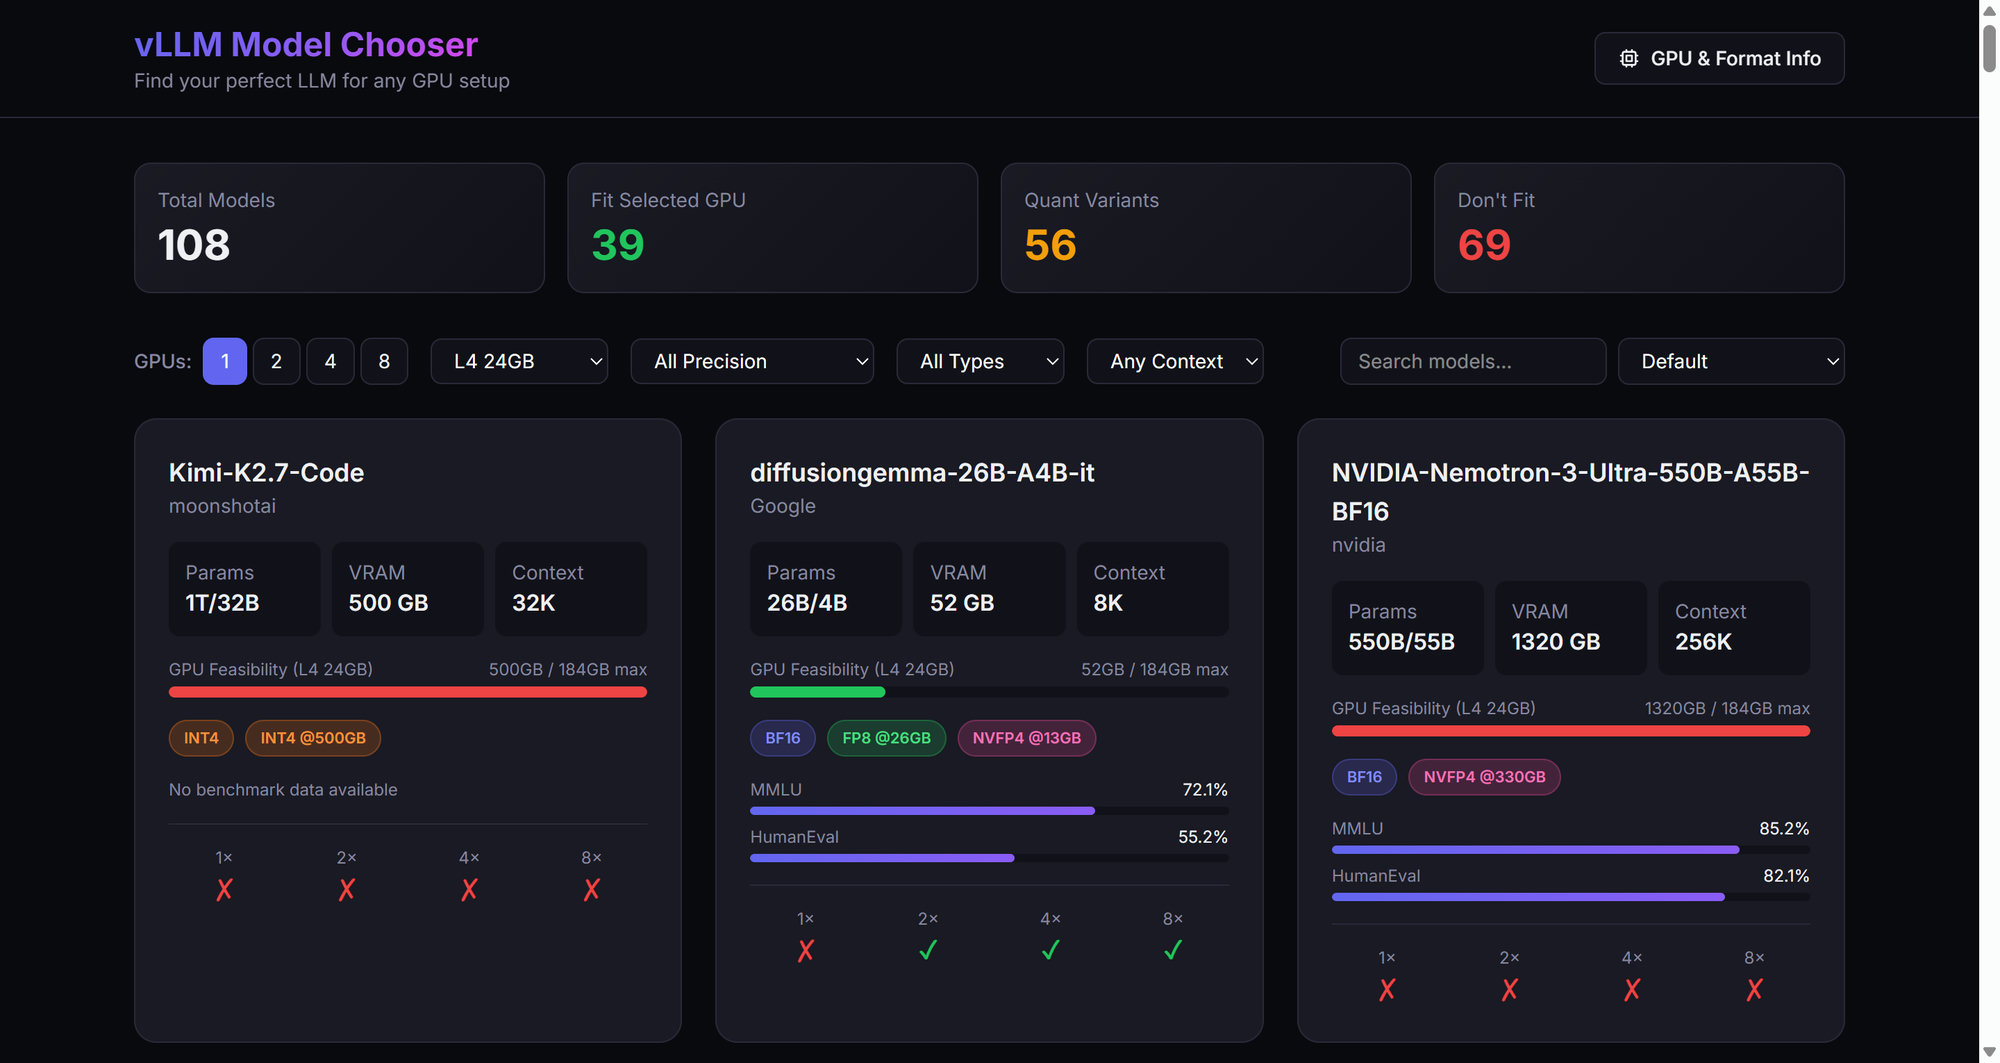
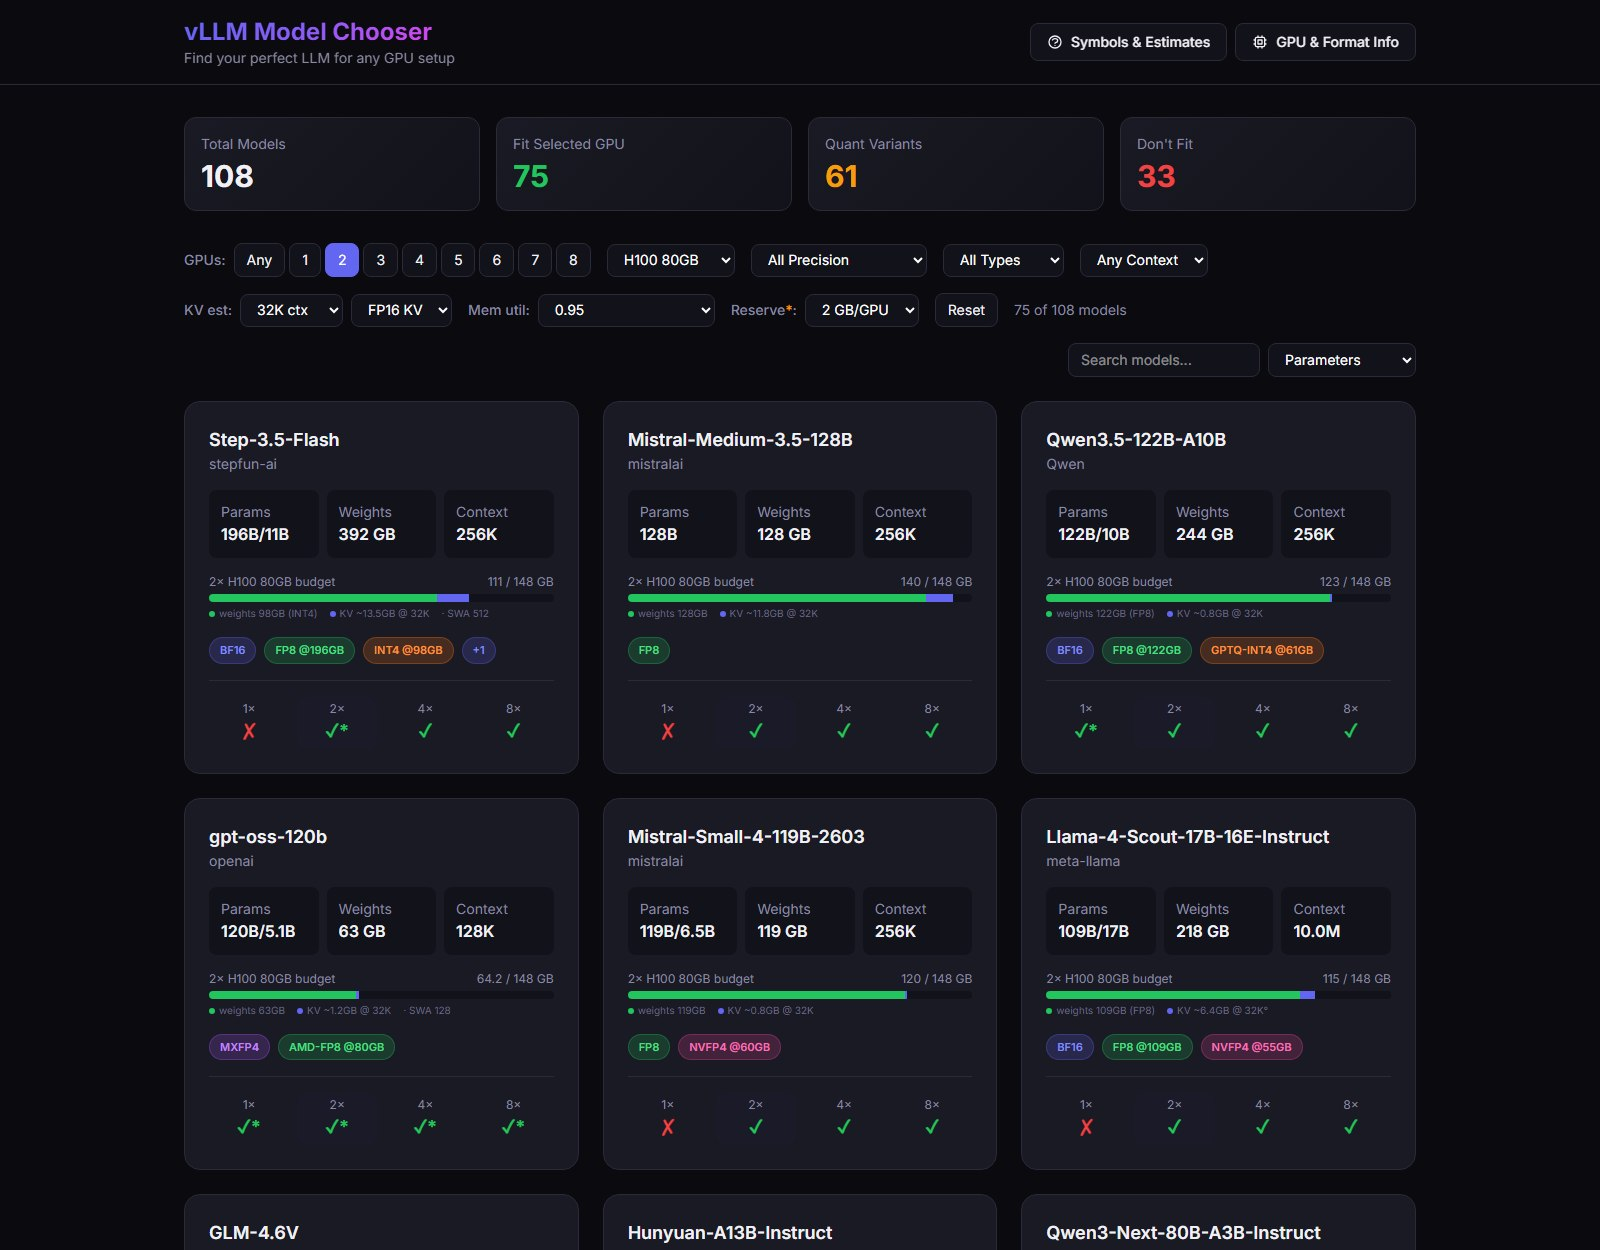
docs(posts): rewrite the vLLM Model Chooser post around the memory model
The June post described a tool that no longer exists: it promised MMLU/HumanEval
scores and a "Tested" badge (both since removed), called the app a single
self-contained index.html (it's now a generated data.js + app.js), and got three
rows of the quantization matrix wrong (FP8 is native on Ada, MXFP4 is software on
A100 rather than Hopper-only, MXFP8 is native on Blackwell, not software).

It also missed what the tool is now actually about — the vLLM-style memory budget,
the KV cache computed from each model's real HF attention geometry, FP8 KV, the
concurrency floor, and the provenance markers — so the post is rebuilt around
those, with fresh screenshots of the current UI.

Claude-Session: https://claude.ai/code/session_014yMdTjEr2bGP6VBRbP48fZ

diff --git a/posts/2026-06-22-vllm-model-chooser/index.html b/posts/2026-06-22-vllm-model-chooser/index.html
@@ -4,128 +4,132 @@
   <meta charset="utf-8">
   <meta name="viewport" content="width=device-width, initial-scale=1.0">
   <meta name="author" content="ylnhari">
-  <meta name="description" content="An interactive tool to find the optimal vLLM-compatible LLM for any GPU setup — L4 to B200, multi-GPU, quantization-aware model selection for 108+ models.">
-  <meta property="og:title" content="vLLM Model Chooser: Find Your Perfect LLM for Any GPU Setup">
-  <meta property="og:description" content="An interactive tool to find the optimal vLLM-compatible LLM for any GPU setup — L4 to B200, multi-GPU, quantization-aware model selection for 108+ models.">
+  <meta name="description" content="An interactive tool that answers &quot;will this LLM actually fit on my GPUs?&quot; — weights, KV cache from real attention geometry, and quantization support, for 108 models from L4 to B200.">
+  <meta property="og:title" content="vLLM Model Chooser: Will This LLM Actually Fit on Your GPUs?">
+  <meta property="og:description" content="An interactive tool that answers &quot;will this LLM actually fit on my GPUs?&quot; — weights, KV cache from real attention geometry, and quantization support, for 108 models from L4 to B200.">
   <meta property="og:image" content="https://images.unsplash.com/photo-1558494949-ef010cbdcc31?w=1200&q=80">
-  <title>vLLM Model Chooser: Find Your Perfect LLM for Any GPU Setup</title>
+  <title>vLLM Model Chooser: Will This LLM Actually Fit on Your GPUs?</title>
   <link rel="stylesheet" href="../../assets/style.css">
 </head>
 <body>
 <article>
 
-<h1>vLLM Model Chooser: Find Your Perfect LLM for Any GPU Setup</h1>
-<p class="byline">By ylnhari &middot; June 22, 2026 &middot; vLLM, LLM, GPU, open-source, AI-tools</p>
+<h1>vLLM Model Chooser: Will This LLM Actually Fit on Your GPUs?</h1>
+<p class="byline">By ylnhari &middot; June 22, 2026 (updated July 14, 2026) &middot; vLLM, LLM, GPU, open-source, AI-tools</p>
 
-<img src="https://raw.githubusercontent.com/ylnhari/blog/main/posts/2026-06-22-vllm-model-chooser/images/dashboard-main.jpg" alt="vLLM Model Chooser dashboard showing the main interface: header, stats cards (108 models, 39 fit, 56 quant variants, 69 don't fit), GPU/format filter controls, and interactive model listing with feasibility indicators">
+<img src="https://raw.githubusercontent.com/ylnhari/blog/main/posts/2026-06-22-vllm-model-chooser/images/dashboard-main.jpg" alt="vLLM Model Chooser dashboard: stats cards, GPU and KV-cache filter controls, and model cards each showing a stacked memory bar split into weights and KV cache against the selected GPU budget">
 
-<h2>The Problem: Too Many Models, Too Little Clarity</h2>
+<h2>The Problem: Parameter Count Tells You Nothing</h2>
 
-<p>If you've ever tried to run an LLM on your own GPU hardware, you've hit this wall: a model's parameter count tells you nothing about whether it'll actually fit on your GPU. A 70B model in BF16 needs ~140 GB of VRAM — but in FP8 it needs ~70 GB, and in NVFP4 it squeezes into ~35 GB. That's four wildly different answers for the same model, depending entirely on which quantization format your GPU supports.</p>
+<p>If you've ever tried to serve an LLM on your own GPUs, you've hit this wall: a model's parameter count tells you almost nothing about whether it will actually fit. A 70B model in BF16 wants ~140 GB of weights — but in FP8 it's ~70 GB, and in NVFP4 it squeezes into ~35 GB. That's three wildly different answers for the same model, and which of them you're allowed to use depends on whether your GPU has tensor cores for that format at all.</p>
 
-<p>The deeper problem? NVFP4 is native on Blackwell (B100/B200), completely absent on Ada Lovelace (L4). MXFP8 works on Blackwell via vLLM SW support but doesn't exist on Hopper. There's no single place to check "which models fit MY hardware" — until now.</p>
+<p>And weights are only half the story. The other half is the <strong>KV cache</strong>, which grows with context length and concurrency, and which vLLM greedily fills with whatever memory is left after the weights load. A model whose weights "fit" in 74 GB with 4 GB to spare doesn't fit in any useful sense — you have nowhere to put the conversation.</p>
 
 <h2>Introducing vLLM Model Chooser</h2>
 
-<p><strong>vLLM Model Chooser</strong> is a single-file interactive web tool that tells you exactly which vLLM-compatible models run on your GPU setup — with zero configuration, no installation, and instant results. It ships as a standalone <code>index.html</code> that you can open in any browser or serve locally.</p>
+<p><strong>vLLM Model Chooser</strong> is an interactive web tool that tells you which vLLM-compatible models actually run on your GPU setup — weights, KV cache, and format support together — with zero configuration and no installation.</p>
 
 <ul>
-  <li><strong>6 GPU types:</strong> L4, A100, H100, H200, B100, B200 — with 1/2/4/8x multi-GPU</li>
-  <li><strong>108 models</strong> with detailed specs: params, VRAM, context length, quantization variants, benchmarks</li>
-  <li><strong>VRAM + quantization dual check:</strong> filters by BOTH weight VRAM AND quantization format compatibility</li>
-  <li><strong>GPU info modal:</strong> full specs, Native HW vs vLLM SW support table, quantization compatibility matrix</li>
-  <li><strong>vLLM Recipe &amp; HuggingFace links</strong> per model</li>
+  <li><strong>6 GPU types:</strong> L4, A100, H100, H200, B100, B200 — at any count from 1 to 8</li>
+  <li><strong>108 models</strong> with params, active params (for MoE), weight-only VRAM, context length and quantization variants</li>
+  <li><strong>A real memory budget:</strong> physical VRAM × <code>--gpu-memory-utilization</code> − activation reserve = what's actually usable for weights + KV</li>
+  <li><strong>KV-cache estimate from each model's real attention geometry</strong> — read from its HuggingFace <code>config.json</code>, sliding windows included</li>
+  <li><strong>Quantization × GPU matrix:</strong> native tensor-core support vs. vLLM's software path, per architecture</li>
+  <li><strong>Provenance on every number</strong> — the tool tells you which figures are measured-from-source and which are estimates</li>
 </ul>
 
-<p>The tool is open-source under MIT license: <a href="https://github.com/ylnhari/vllm-model-chooser">github.com/ylnhari/vllm-model-chooser</a></p>
+<p>It's open-source under MIT: <a href="https://github.com/ylnhari/vllm-model-chooser">github.com/ylnhari/vllm-model-chooser</a></p>
 
-<blockquote>"There's no single place to check which models fit MY hardware — until now."</blockquote>
+<blockquote>"Weights tell you whether the model loads. The KV cache tells you whether you can serve anyone."</blockquote>
 
-<h2>Why Quantization Awareness Matters</h2>
+<h2>The Memory Budget, the Way vLLM Actually Accounts For It</h2>
 
-<p>The landscape of quantization formats has exploded in the last year. vLLM supports BF16, FP8, INT4/AWQ/GPTQ, NVFP4, MXFP4, and MXFP8 — but not every GPU supports every format:</p>
+<p>The heart of the tool is a memory budget that mirrors vLLM's own accounting rather than hand-waving at "VRAM needed". Open any model and you get the whole chain, itemized:</p>
+
+<img src="https://raw.githubusercontent.com/ylnhari/blog/main/posts/2026-06-22-vllm-model-chooser/images/memory-budget.jpg" alt="Model detail view for Llama-3.3-70B-Instruct on 2x H100: memory budget breakdown from 160 GB physical down to a 78 GB KV cache pool, plus per-GPU-count feasibility list">
+
+<p>Take Llama-3.3-70B on 2× H100 80GB, in FP8, at 32K context:</p>
 
 <ul>
-  <li><strong>BF16:</strong> Native on all GPUs from Ada to Blackwell</li>
-  <li><strong>FP8:</strong> Native on Hopper and Blackwell; software emulation on Ampere via vLLM</li>
-  <li><strong>INT4/AWQ/GPTQ:</strong> Software support on all architectures via vLLM</li>
-  <li><strong>NVFP4:</strong> Native on Blackwell only — completely absent on L4, A100, and H100</li>
-  <li><strong>MXFP4:</strong> Native on Blackwell, software on Hopper</li>
-  <li><strong>MXFP8:</strong> Software on Blackwell only</li>
+  <li><strong>160 GB</strong> physical across the two cards</li>
+  <li><strong>× 0.95</strong> memory utilization → 152 GB (vLLM's own default is 0.90–0.92; 0.95 is the optimistic end, and it's a control you can change)</li>
+  <li><strong>− 4 GB</strong> activation / CUDA-graph reserve → <strong>148 GB usable</strong></li>
+  <li><strong>− 70 GB</strong> FP8 weights → <strong>78 GB KV cache pool</strong></li>
+  <li>≈ <strong>7 concurrent requests</strong> if every one of them fills the full 32K context</li>
 </ul>
 
-<p>This means a model that fits on a B200 in NVFP4 might be 4x too large for the same model on an H100. The Chooser handles this automatically — pick your GPU, and it only shows quantization variants that actually work on that hardware.</p>
+<p>That last number is the one that changes decisions. "It fits" and "it fits, and you can serve seven simultaneous long-context requests" are different sentences, and only the second one is a deployment plan. (It's deliberately a floor: real traffic is mostly shorter than max context, and PagedAttention shares prefix blocks, so you'll usually do better.)</p>
 
-<img src="https://raw.githubusercontent.com/ylnhari/blog/main/posts/2026-06-22-vllm-model-chooser/images/gpu-modal.jpg" alt="GPU &amp; Format Compatibility modal showing a detailed compatibility matrix: which quantization formats (BF16, FP8, INT4, NVFP4, MXFP4, MXFP8) are supported natively vs via software on each GPU architecture from L4 to B200">
+<h2>The KV Cache Is Computed, Not Guessed</h2>
 
-<h2>How It Works</h2>
+<p>Most VRAM calculators estimate the KV cache as some multiple of parameter count. That's wrong in both directions: it ignores grouped-query and multi-head-latent attention, which shrink the cache dramatically, and it over-counts MoE models, whose experts add parameters but no attention state.</p>
 
-<p>The interface is simple but powerful:</p>
+<p>So the Chooser doesn't guess. A generator script pulls each model's <code>config.json</code> from HuggingFace and computes bytes-per-token from the actual geometry — layers, KV heads, head dimension, and, crucially, <strong>sliding-window attention</strong>: layers that cap their cache at a fixed window instead of growing with context. That's why some models here show a startlingly small KV footprint. It isn't a bug; it's the architecture, and it's the same file vLLM itself reads at startup.</p>
 
-<ol>
-  <li><strong>Select your GPU</strong> — L4, A100, H100, H200, B100, or B200</li>
-  <li><strong>Choose GPU count</strong> — 1, 2, 4, or 8 GPUs</li>
-  <li><strong>Optional filters</strong> — Precision format, model type (Text, Vision, MoE, Embedding), minimum context length</li>
-  <li><strong>Sort</strong> — by parameters, VRAM, context length, MMLU score, or HumanEval score</li>
-  <li><strong>Search</strong> — type any model name to find it instantly</li>
-</ul>
+<p>You can also switch the cache to FP8 (<code>--kv-cache-dtype fp8</code>), which halves it, and watch every model's fit verdict shift.</p>
 
-<p>The tool instantly recalculates and shows you exactly which models fit, with per-GPU feasibility indicators (green checkmark for fits, red X for doesn't) for each count configuration.</p>
+<h2>Every Number Says How Confident It Is</h2>
 
-<p>For each model, you see:</p>
-<ul>
-  <li>Parameter count &amp; active parameters (for MoE models like DeepSeek-V4 with 1600B/49B)</li>
-  <li>VRAM requirements in GB</li>
-  <li>Context length</li>
-  <li>Available quantization variants with VRAM at each quantization level</li>
-  <li>MMLU &amp; HumanEval benchmark scores</li>
-  <li>Direct links to vLLM Recipe and HuggingFace</li>
-</ul>
+<p>A tool that hands you a number with no provenance is asking you to trust arithmetic you can't see. So each figure carries a marker, and the page ends with a glossary that explains what each one means <em>and what to do about it</em>:</p>
 
-<h2>Multi-GPU Support: From 1 to 8 GPUs</h2>
-
-<p>One of the most valuable features is the multi-GPU slider. The tool combines usable VRAM across GPUs (with a 95% usable factor to account for system overhead) and checks model fit at each count. This makes it easy to answer questions like:</p>
+<img src="https://raw.githubusercontent.com/ylnhari/blog/main/posts/2026-06-22-vllm-model-chooser/images/glossary.jpg" alt="Glossary section explaining the confidence markers: estimated-not-measured, mirror-sourced KV geometry, hand-sourced geometry, coarse params-times-tokens proxy, the activation reserve assumption, and the software-path fit verdict">
 
 <ul>
-  <li><strong>"Can Llama-3.3-70B run on a single L4?"</strong> — No (needs 140 GB BF16, L4 has 23 GB usable).</li>
-  <li><strong>"What about 4x L4?"</strong> — Yes! 184 GB usable is enough for BF16.</li>
-  <li><strong>"What about 2x H100 in FP8?"</strong> — Yes, 152 GB usable comfortably fits 70 GB FP8.</li>
+  <li><strong>No marker</strong> — computed from the model's own published config.</li>
+  <li><strong>°</strong> — the model's repo is gated, so the attention geometry came from an ungated same-architecture mirror.</li>
+  <li><strong>†</strong> — no config reachable anywhere; geometry hand-sourced from the model card or paper.</li>
+  <li><strong>‡</strong> — no geometry at all, so the KV falls back to a coarse params×tokens proxy that ignores GQA/MLA and over-estimates MoE. The weakest number on the site, and it says so.</li>
+  <li><strong>*</strong> — the activation reserve is an <em>assumption</em>. vLLM measures it by profiling a real forward pass at startup; the tool can only guess, so it lets you set it.</li>
 </ul>
 
-<p>The tool even handles next-gen hardware: B100 and B200 with 192 GB each (182 GB usable per card) unlock 8-GPU setups with up to 1,456 GB of usable VRAM — enough for models like DeepSeek-V4 (960 GB in NVFP4) or Qwen3-Coder-480B.</p>
+<p>The honest headline: every VRAM and KV figure here is arithmetic, not a reading from a running server. Use it to shortlist hardware in seconds instead of hours — then confirm by actually starting vLLM.</p>
 
-<h2>108 Models, All in One Place</h2>
+<h2>Quantization: Native Silicon vs. vLLM's Software Path</h2>
 
-<p>The latest generation of open-weight models is covered comprehensively:</p>
+<p>vLLM supports BF16, FP8, INT8, INT4/AWQ/GPTQ, NVFP4, MXFP4 and MXFP8 — but "supported" hides an important distinction. Some formats run on native tensor cores; others are dequantized on the fly in software, which saves memory but gives you no speedup, and can be slower than a format the hardware understands.</p>
+
+<img src="https://raw.githubusercontent.com/ylnhari/blog/main/posts/2026-06-22-vllm-model-chooser/images/gpu-modal.jpg" alt="GPU and Format Compatibility modal: per-architecture snapshot of native vs software formats, a GPU specification table with the derived memory budget, and the full quantization compatibility matrix">
 
 <ul>
-  <li><strong>DeepSeek:</strong> V3/V3.1/V3.2, V4-Pro (1600B/49B), V4-Flash (284B/13B), R1 (671B/37B)</li>
-  <li><strong>Qwen:</strong> Qwen3-32B, Qwen3-235B-A22B, Qwen3-Coder-480B, Qwen3.5 series (0.8B to 397B)</li>
-  <li><strong>Meta:</strong> Llama-3.1-8B, Llama-3.3-70B, Llama-4-Scout-109B/17B</li>
-  <li><strong>Mistral:</strong> Small-4-119B, Large-3-675B, Medium-3.5-128B</li>
-  <li><strong>Google:</strong> Gemma-4 series (5B to 31B), diffusiongemma, translategemma</li>
-  <li><strong>NVIDIA:</strong> Nemotron-3 (Nano to Ultra 550B), Cosmos3 series</li>
-  <li><strong>Kimi/Moonshot:</strong> K2-Instruct, K2-Thinking, K2.5, K2.7-Code (1T/32B)</li>
-  <li><strong>MiniMax:</strong> M2/M2.1/M2.5/M2.7/M3 series (427B/26B with 1M context)</li>
-  <li><strong>And more:</strong> InternLM, Baidu ERNIE, StepFun, Xiaomi MiMo, InclusionAI Ling</li>
+  <li><strong>BF16</strong> — native everywhere, from Ada to Blackwell.</li>
+  <li><strong>FP8</strong> — native on Ada, Hopper and Blackwell; software (Marlin) on Ampere.</li>
+  <li><strong>INT8 (W8A8)</strong> — native on every listed GPU; they're all Ampere or newer, with int8 tensor cores.</li>
+  <li><strong>INT4 / AWQ / GPTQ (W4A16)</strong> — software on <em>all</em> GPUs: the weights are dequantized to FP16 for the actual math. Real memory saving, no int4 tensor-core speedup.</li>
+  <li><strong>NVFP4</strong> — Blackwell FP4 tensor cores only. Absent on L4, A100 and H100.</li>
+  <li><strong>MXFP4</strong> — native on Blackwell, software elsewhere (which is how gpt-oss-120b squeezes onto a single A100).</li>
+  <li><strong>MXFP8</strong> — native on Blackwell MX tensor cores only; unsupported on earlier hardware.</li>
 </ul>
 
-<p>Each model entry also includes a <strong>"Tested"</strong> badge for models validated in production, benchmark scores, and direct links to deployment recipes.</p>
+<p>The tool never offers you a variant your GPU can't run, and a fit that only works through the software path is marked <strong>✓*</strong> rather than a plain ✓ — because you should know what you're buying.</p>
 
-<h2>Built for Practical Deployment</h2>
+<h2>Multi-GPU: From One L4 to Eight B200s</h2>
 
-<p>Under the hood, <strong>vLLM Model Chooser</strong> is refreshingly simple: a single <code>index.html</code> that bundles all HTML, CSS, and JavaScript. No build step, no dependencies, no npm install. Just serve it with any HTTP server:</p>
+<p>Every model card shows fit at 1×, 2×, 4× and 8×, and the detail view walks all counts from 1 to 8, so questions like these get answered in a second:</p>
+
+<ul>
+  <li><strong>"Can Llama-3.3-70B run on a single L4?"</strong> — No. 20.8 GB usable per card against 140 GB of BF16 weights.</li>
+  <li><strong>"On one H100, then?"</strong> — Not really: FP8 weights are 70 GB against 74 GB usable, which leaves 4 GB of KV — a server that loads and then serves almost nobody. Two cards give you 78 GB of cache.</li>
+  <li><strong>"What unlocks the 1T-parameter models?"</strong> — Eight B200s: 180 GB usable each, 1.4 TB total, enough for Kimi K2.7-Code or DeepSeek-V4-Pro in a 4-bit format.</li>
+</ul>
+
+<h2>How It's Built</h2>
+
+<p>The page is static and dependency-free at runtime — <code>index.html</code> plus two plain scripts, no bundler, no framework, no build step. Serve it with anything:</p>
 
 <pre><code>python3 -m http.server 5000
-# Then open http://localhost:5000</code></pre>
+# then open http://localhost:5000</code></pre>
 
-<p>The model data is sourced from vLLM's official recipe catalog (<a href="https://recipes.vllm.ai/models.json">recipes.vllm.ai/models.json</a>) and supplemented with detailed quantization compatibility information from <a href="https://docs.vllm.ai/en/stable/features/quantization/">vLLM's quantization docs</a>.</p>
+<p>The data behind it is <em>generated</em>, not hand-written, which is the whole reason the numbers can be trusted. <code>scripts/sync-data.mjs</code> pulls the model inventory and per-model specs from vLLM's official recipe catalog (<a href="https://recipes.vllm.ai/models.json">recipes.vllm.ai/models.json</a>), cross-checks context length and attention geometry against each model's HuggingFace <code>config.json</code>, and derives weight-only VRAM from parameter count × bytes-per-parameter. A second script, <code>npm run factcheck</code>, audits the result back against the recipes, and a Node test suite covers the fit logic. Node is only needed to regenerate or test — never to view.</p>
+
+<p>The quantization × architecture matrix comes from <a href="https://docs.vllm.ai/en/latest/features/quantization/supported_hardware/">vLLM's own supported-hardware docs</a>, corroborated per-model against the hardware hints in each recipe. When a blog post disagrees with a recipe, the recipe wins.</p>
 
 <hr>
 
 <h2>Conclusion</h2>
 
-<p>If you're deploying LLMs with vLLM, the <strong>vLLM Model Chooser</strong> saves you hours of VRAM arithmetic and compatibility research. Pick your GPU, see what fits, and get deploying — all from a single HTML file.</p>
+<p>Sizing an LLM deployment is arithmetic that nobody enjoys doing twice: weights, format support, KV geometry, memory utilization, activation reserve, concurrency. The Chooser does it for 108 models across six GPUs and eight counts, shows its working, and is candid about which numbers are estimates.</p>
+
+<p>Pick your GPU, turn on the KV estimate at the context length you actually serve, and see what survives.</p>
 
 <p>Try it live: <a href="https://ylnhari.github.io/vllm-model-chooser/">ylnhari.github.io/vllm-model-chooser</a></p>
 